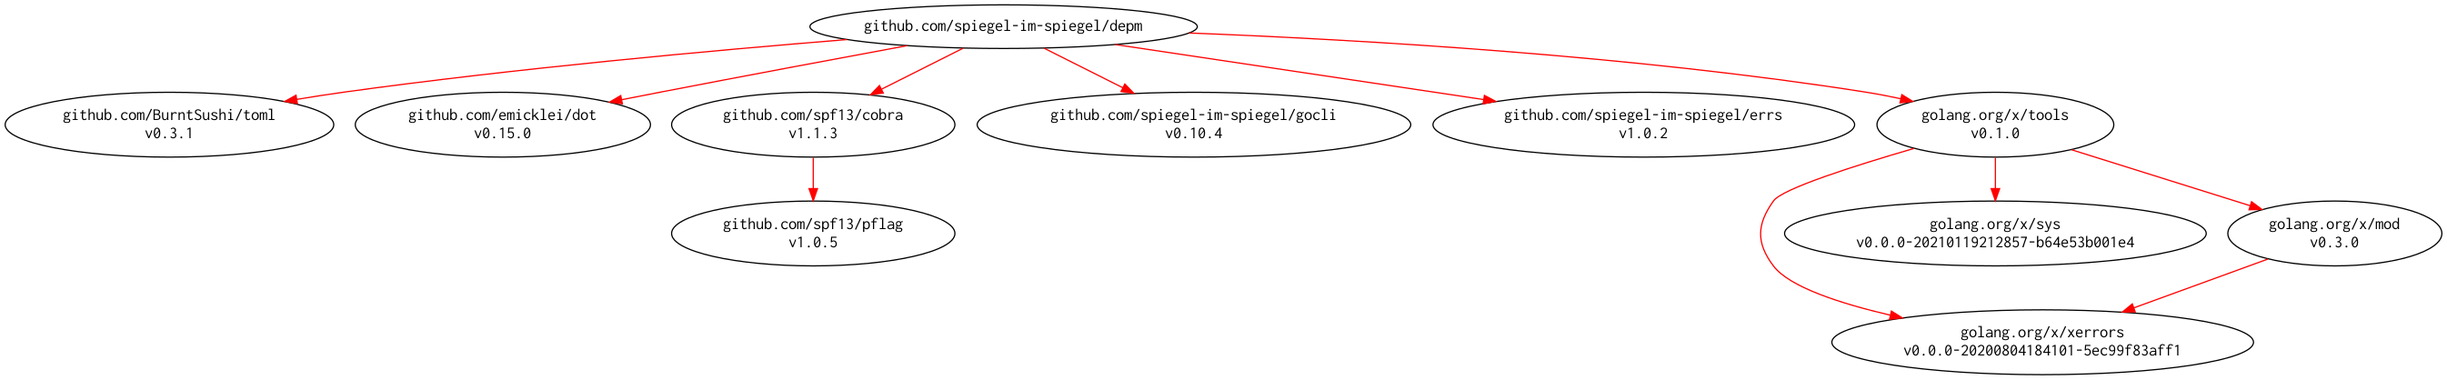
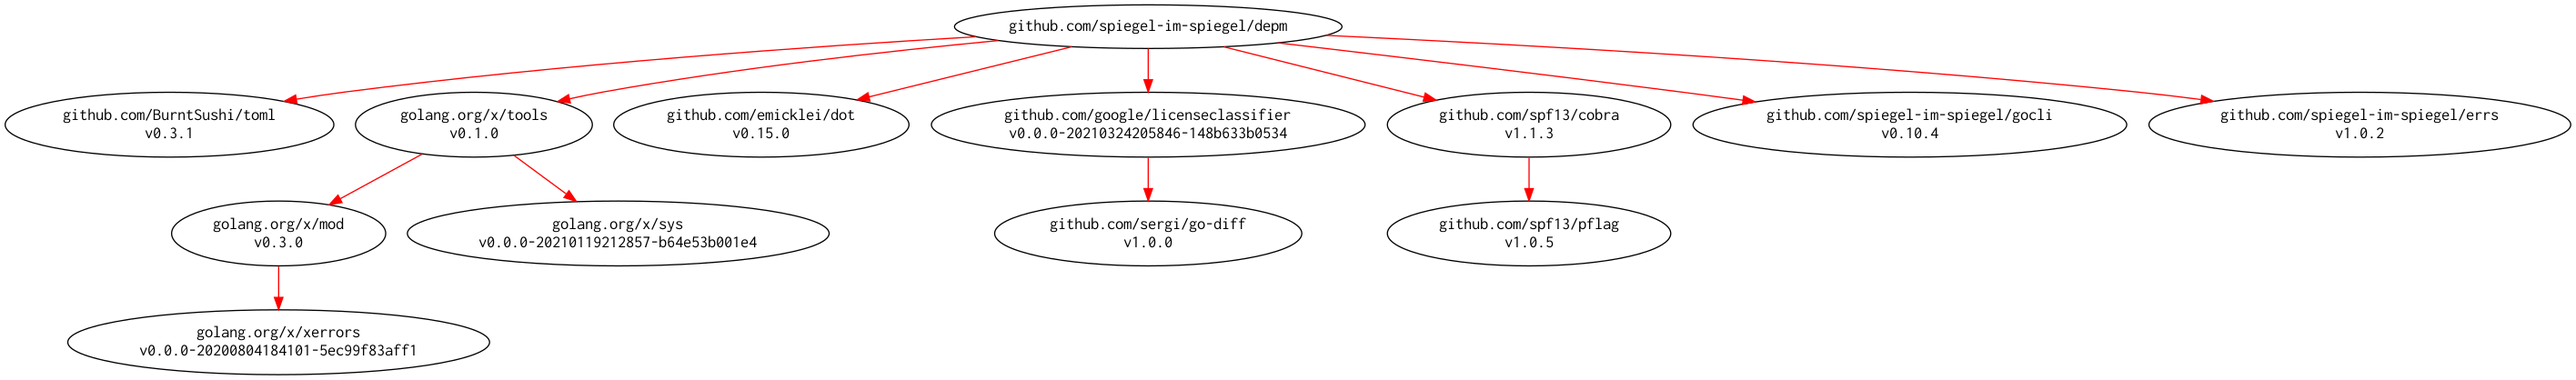
Add License element in module info

diff --git a/modules/licenses.go b/modules/licenses.go
@@ -1,0 +1,55 @@
+package modules
+
+import (
+	"os"
+	"path/filepath"
+	"regexp"
+	"sync"
+
+	"github.com/google/licenseclassifier"
+)
+
+var (
+	licenseRegexp *regexp.Regexp
+	classifier    *licenseclassifier.License
+	once          sync.Once
+)
+
+func FindLicense(dir string) string {
+	once.Do(func() {
+		licenseRegexp = regexp.MustCompile(`^(?i)(LICEN(S|C)E|COPYING|README|NOTICE)(\..+)?$`)
+		classifier, _ = licenseclassifier.New(licenseclassifier.DefaultConfidenceThreshold)
+	})
+
+	files, err := os.ReadDir(dir)
+	if err != nil {
+		return ""
+	}
+	for _, f := range files {
+		if licenseRegexp.MatchString(f.Name()) {
+			path := filepath.Join(dir, f.Name())
+			if content, err := os.ReadFile(path); err == nil {
+				matches := classifier.MultipleMatch(string(content), true)
+				if len(matches) > 0 {
+					return matches[0].Name
+				}
+			}
+		}
+	}
+	return ""
+}
+
+/* Copyright 2021 Spiegel
+ *
+ * Licensed under the Apache License, Version 2.0 (the "License");
+ * you may not use this file except in compliance with the License.
+ * You may obtain a copy of the License at
+ *
+ * 	http://www.apache.org/licenses/LICENSE-2.0
+ *
+ * Unless required by applicable law or agreed to in writing, software
+ * distributed under the License is distributed on an "AS IS" BASIS,
+ * WITHOUT WARRANTIES OR CONDITIONS OF ANY KIND, either express or implied.
+ * See the License for the specific language governing permissions and
+ * limitations under the License.
+ */

diff --git a/facade/pkgjson/pkgjson.go b/facade/pkgjson/pkgjson.go
@@ -6,6 +6,7 @@ import (
 	"github.com/spiegel-im-spiegel/depm/dependency"
 	"github.com/spiegel-im-spiegel/depm/dotenc"
 	"github.com/spiegel-im-spiegel/depm/golist"
+	"github.com/spiegel-im-spiegel/depm/modules"
 	"github.com/spiegel-im-spiegel/depm/packages"
 	"github.com/spiegel-im-spiegel/errs"
 )
@@ -24,6 +25,7 @@ type packageJSON struct {
 type moduleJSON struct {
 	Path    string `json:",omitempty"`
 	Version string `json:",omitempty"`
+	License string `json:",omitempty"`
 }
 
 //Encode returns JSON formatted text from Node slice.
@@ -75,10 +77,14 @@ func newPackageJSON(p *packages.Package) *packageJSON {
 }
 
 func newModuleJSON(m *golist.Module) *moduleJSON {
-	return &moduleJSON{Path: m.Path, Version: m.Version}
+	var license string
+	if len(m.Dir) > 0 {
+		license = modules.FindLicense(m.Dir)
+	}
+	return &moduleJSON{Path: m.Path, Version: m.Version, License: license}
 }
 
-/* Copyright 2020 Spiegel
+/* Copyright 2020-2021 Spiegel
  *
  * Licensed under the Apache License, Version 2.0 (the "License");
  * you may not use this file except in compliance with the License.

diff --git a/facade/modjson/modjson.go b/facade/modjson/modjson.go
@@ -22,6 +22,7 @@ type moduleJSON struct {
 	Main     bool     `json:",omitempty"`
 	CGO      bool     `json:",omitempty"`
 	Unsafe   bool     `json:",omitempty"`
+	License  string   `json:",omitempty"`
 	Packages []string `json:",omitempty"`
 }
 
@@ -72,10 +73,11 @@ func newNodeJSON(deps []*dependency.NodeModule) []nodeJSON {
 
 func newModuleJSON(m *modules.Module) *moduleJSON {
 	mod := &moduleJSON{
-		Path:   m.Name.String(),
-		Main:   m.Main,
-		CGO:    m.UseCGO,
-		Unsafe: m.UseUnsafe,
+		Path:    m.Name.String(),
+		Main:    m.Main,
+		CGO:     m.UseCGO,
+		Unsafe:  m.UseUnsafe,
+		License: m.License,
 	}
 	if !m.Replace.IsZero() {
 		mod.Replace = m.Replace.String()
@@ -94,7 +96,7 @@ func newModuleJSON(m *modules.Module) *moduleJSON {
 	return mod
 }
 
-/* Copyright 2020 Spiegel
+/* Copyright 2020-2021 Spiegel
  *
  * Licensed under the Apache License, Version 2.0 (the "License");
  * you may not use this file except in compliance with the License.

diff --git a/modules/modules.go b/modules/modules.go
@@ -10,6 +10,7 @@ type Module struct {
 	Name      Name     // module name (path and version)
 	Node      bool     // node module
 	Edge      bool     // edge module
+	License   string   // license of module
 	Replace   Name     // replaced by this module
 	Main      bool     // is this the main module?
 	Indirect  bool     // is this module only an indirect dependency of main module?
@@ -45,6 +46,11 @@ func newModule(m *golist.Module, node, edge bool) *Module {
 	if m.Update != nil {
 		mm.Update = newName(m.Update.Path, m.Update.Version)
 	}
+	if len(m.Dir) > 0 {
+		// fmt.Println(m.Dir)
+		mm.License = FindLicense(m.Dir)
+	}
+
 	return mm
 }
 
@@ -149,7 +155,7 @@ func (ms *Modules) List() []*Module {
 	return ms.list
 }
 
-/* Copyright 2020 Spiegel
+/* Copyright 2020-2021 Spiegel
  *
  * Licensed under the Apache License, Version 2.0 (the "License");
  * you may not use this file except in compliance with the License.

diff --git a/packages/packages.go b/packages/packages.go
@@ -67,14 +67,6 @@ func (p *Package) Copy(pp *golist.Package) *Package {
 			}
 		}
 	}
-	// if !p.UseCGO && len(pp.Deps) > 0 {
-	// 	for _, path := range pp.Deps {
-	// 		if isC(path) {
-	// 			p.UseCGO = true
-	// 			break
-	// 		}
-	// 	}
-	// }
 	return p
 }
 

diff --git a/README.md b/README.md
@@ -73,20 +73,28 @@ $ depm package "github.com/spiegel-im-spiegel/depm" | jq .
 [
   {
     "Package": {
-      "ImportPath": "github.com/spf13/cobra",
+      "ImportPath": "github.com/google/licenseclassifier",
       "Module": {
-        "Path": "github.com/spf13/cobra",
-        "Version": "v1.1.1"
+        "Path": "github.com/google/licenseclassifier",
+        "Version": "v0.0.0-20210324205846-148b633b0534",
+        "License": "Apache-2.0"
       }
     },
     "Deps": [
       {
-        "Package": {
-          "ImportPath": "github.com/spf13/pflag",
-          "Module": {
-            "Path": "github.com/spf13/pflag",
-            "Version": "v1.0.5"
-          }
+        "ImportPath": "github.com/google/licenseclassifier/stringclassifier",
+        "Module": {
+          "Path": "github.com/google/licenseclassifier",
+          "Version": "v0.0.0-20210324205846-148b633b0534",
+          "License": "Apache-2.0"
+        }
+      },
+      {
+        "ImportPath": "github.com/google/licenseclassifier/stringclassifier/searchset",
+        "Module": {
+          "Path": "github.com/google/licenseclassifier",
+          "Version": "v0.0.0-20210324205846-148b633b0534",
+          "License": "Apache-2.0"
         }
       }
     ]
@@ -123,16 +131,21 @@ $ depm module "github.com/spiegel-im-spiegel/depm" | jq .
 [
   {
     "Module": {
-      "Path": "github.com/spf13/cobra@v1.1.1",
+      "Path": "github.com/google/licenseclassifier@v0.0.0-20210324205846-148b633b0534",
+      "License": "Apache-2.0",
       "Packages": [
-        "github.com/spf13/cobra"
+        "github.com/google/licenseclassifier",
+        "github.com/google/licenseclassifier/stringclassifier",
+        "github.com/google/licenseclassifier/stringclassifier/searchset",
+        "github.com/google/licenseclassifier/stringclassifier/searchset/tokenizer"
       ]
     },
     "Deps": [
       {
-        "Path": "github.com/spf13/pflag@v1.0.5",
+        "Path": "github.com/sergi/go-diff@v1.0.0",
+        "License": "MIT",
         "Packages": [
-          "github.com/spf13/pflag"
+          "github.com/sergi/go-diff/diffmatchpatch"
         ]
       }
     ]
@@ -181,14 +194,17 @@ Global Flags:
 $ depm list -u "github.com/spiegel-im-spiegel/depm"
 github.com/BurntSushi/toml v0.3.1
 github.com/emicklei/dot v0.15.0
-github.com/spf13/cobra v1.1.1
+github.com/google/licenseclassifier v0.0.0-20210324205846-148b633b0534
+github.com/sergi/go-diff v1.0.0 [v1.1.0]
+github.com/spf13/cobra v1.1.3
 github.com/spf13/pflag v1.0.5
 github.com/spiegel-im-spiegel/depm
 github.com/spiegel-im-spiegel/errs v1.0.2
-github.com/spiegel-im-spiegel/gocli v0.10.3
-golang.org/x/mod v0.3.0
-golang.org/x/net v0.0.0-20201021035429-f5854403a974 [v0.0.0-20201031054903-ff519b6c9102]
-golang.org/x/tools v0.0.0-20201105220310-78b158585360
+github.com/spiegel-im-spiegel/gocli v0.10.4
+golang.org/x/mod v0.3.0 [v0.4.2]
+golang.org/x/net v0.0.0-20201021035429-f5854403a974 [v0.0.0-20210324205630-d1beb07c2056]
+golang.org/x/sys v0.0.0-20210119212857-b64e53b001e4 [v0.0.0-20210324051608-47abb6519492]
+golang.org/x/tools v0.1.0
 golang.org/x/xerrors v0.0.0-20200804184101-5ec99f83aff1
 ```
 
